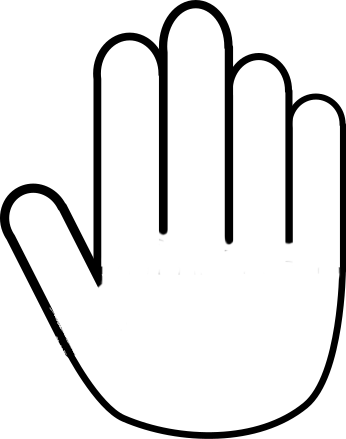
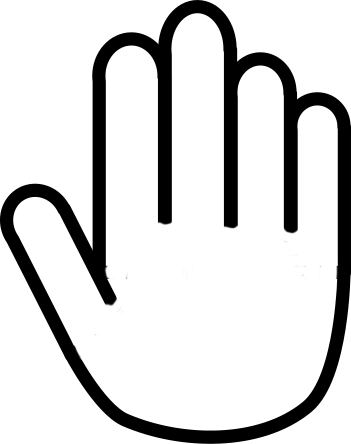
Pulidos finales
Finalización de los detalles finales de los iconos, eliminados los mensajes de depuracion de errores y listo para pasar a rama master

Changed region(s): [[0.0, 0.0, 1.0, 1.0]]

diff --git a/src/controlador/EjercicioController.java b/src/controlador/EjercicioController.java
@@ -123,8 +123,6 @@ public class EjercicioController implements Initializable {
                     break;
             }
 
-            System.out.println(respuestaCorrecta ? "has acertado" : "has fallado");     // falta pulir
-
             if (respuestaCorrecta) { modelo.secretario.sumarAcierto(); } 
             else { modelo.secretario.sumarFallo(); }
             
@@ -136,13 +134,12 @@ public class EjercicioController implements Initializable {
 
     @FXML
     private void mostrarCarta(ActionEvent event) throws IOException {
-        FXMLLoader miCargador = new FXMLLoader(getClass().getResource("/vista/cartaNavegacion.fxml"));
+        FXMLLoader miCargador = new FXMLLoader(getClass().getResource("/vista/FXMLCartaNavegacion.fxml"));
         Parent root = miCargador.load();
         Scene escena = new Scene(root, 900, 600);
         Stage escenario = new Stage();
         escenario.setScene(escena);
         escena.getStylesheets().add("/resources/estilos.css");
-        escenario.setTitle("Carta Nautica");
         escenario.show();
     }
 

diff --git a/src/controlador/PantallaPrincipalUsuarioController.java b/src/controlador/PantallaPrincipalUsuarioController.java
@@ -148,8 +148,6 @@ public class PantallaPrincipalUsuarioController implements Initializable {
         Stage escenario = new Stage();
         escenario.setScene(escena);
         escena.getStylesheets().add("/resources/estilos.css");
-     //   escenario.setTitle("Editando tu perfil");
-     //   escenario.initModality(Modality.APPLICATION_MODAL); // Hacemos que la ventana nueva sea modal
         escenario.show();
     }
     
